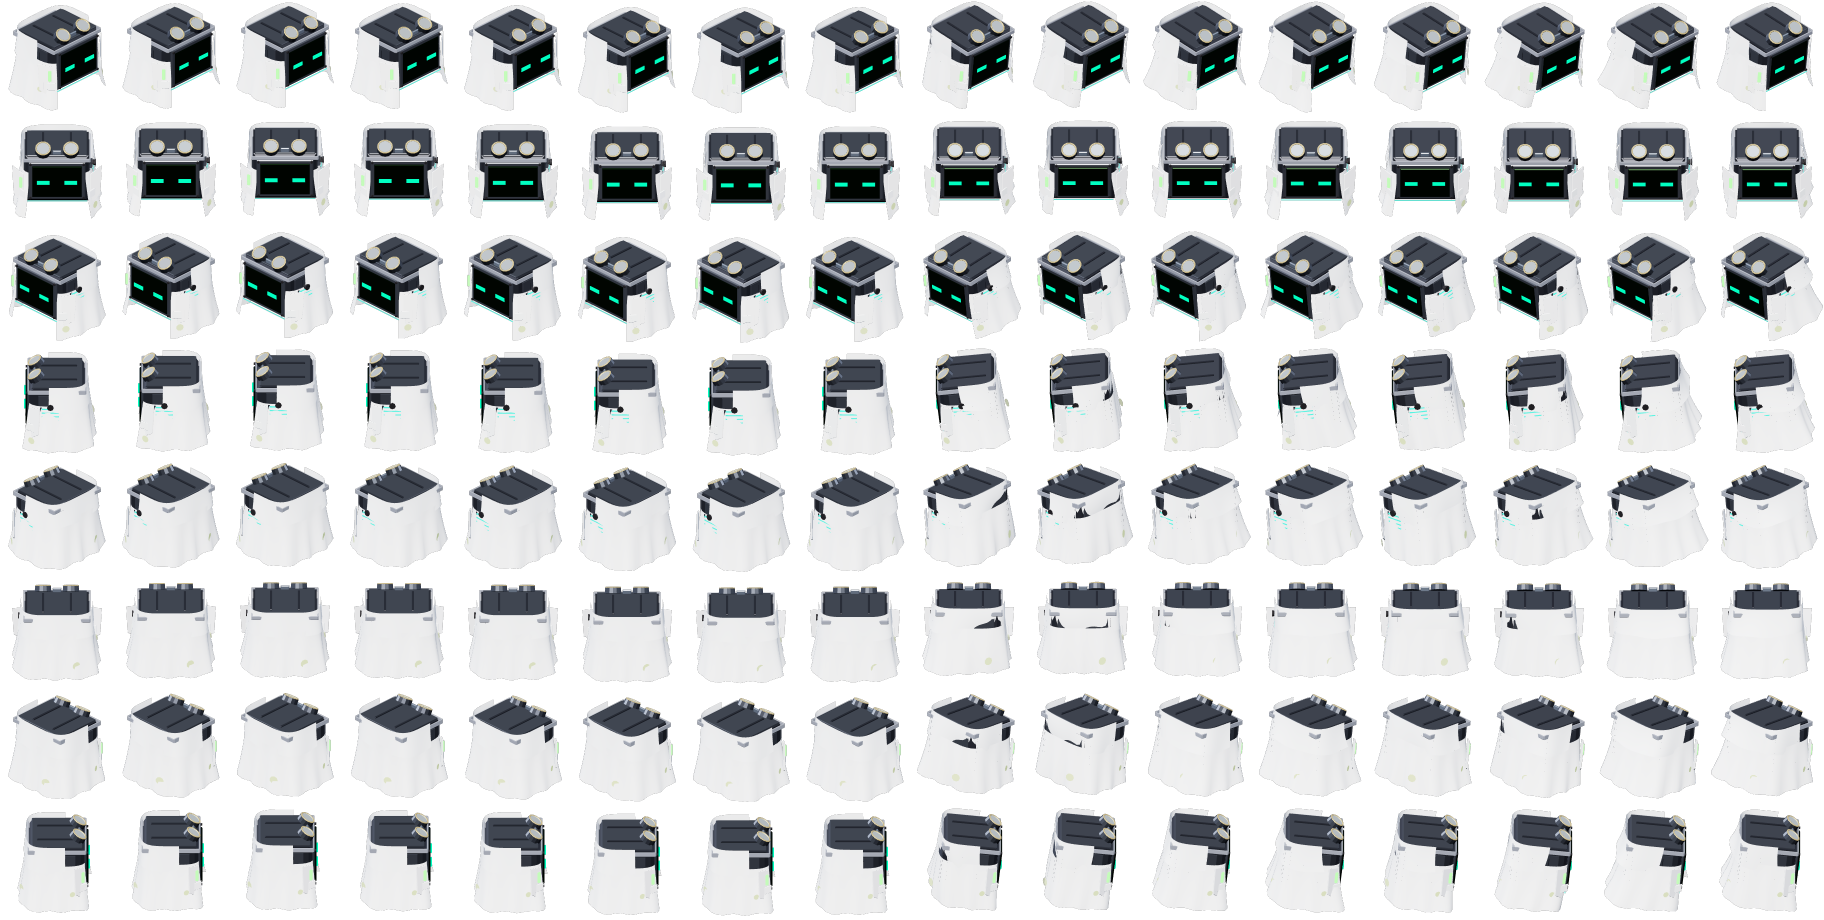
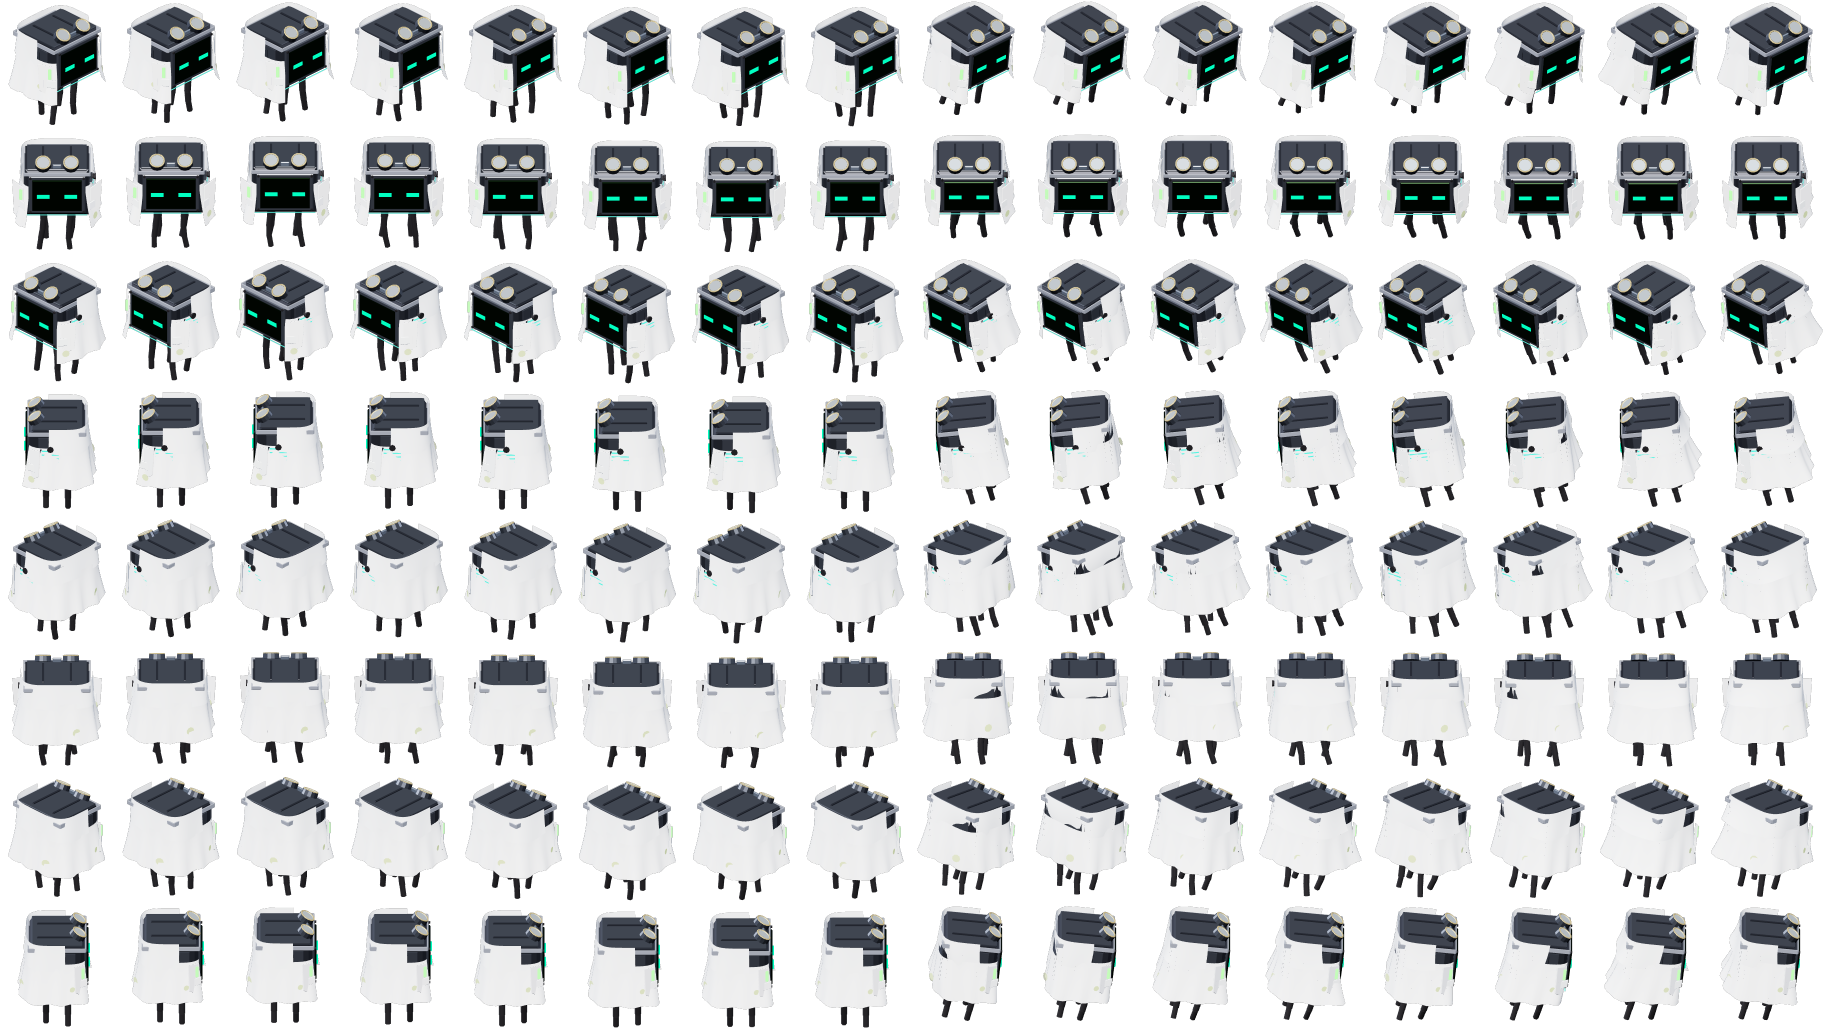
Mutator: the four tentacles hang out under the lab coat's hem
Claude-Session: https://claude.ai/code/session_0115DZYYhipQqSk6LHvQcEfz

diff --git a/design/evolutions/forms30.js b/design/evolutions/forms30.js
@@ -144,14 +144,14 @@ function _coatBand(parent, o) {
     geo.attributes.position.needsUpdate = true; geo.computeVertexNormals(); } };
 }
 function _mutator() {
-  const p = _playerHD(false, { skipCables: [0, 1, 2, 3] }), g = p.g, b = p.b, cy = 1.75, W = 1.5, H = 1.22, D = 1.3;
+  const p = _playerHD(false, { hang: 1.1, cableScale: 1.6 }), g = p.g, b = p.b, cy = 1.75, W = 1.5, H = 1.22, D = 1.3;
   const a = W / 2 + 0.1, bb = D / 2 + 0.1;
-  const skirt = _coatBand(b, { phi0: 0.78, phi1: 2 * PI - 0.78, top: cy + 0.2, hem: 0.8, flare: 0.18, folds: 11, ripple: 0.05, a, b: bb });
+  const skirt = _coatBand(b, { phi0: 0.78, phi1: 2 * PI - 0.78, top: cy + 0.2, hem: 0.92, flare: 0.18, folds: 11, ripple: 0.05, a, b: bb });
   const collar = _coatBand(b, { phi0: 1.35, phi1: 2 * PI - 1.35, top: cy + H / 2 + 0.1, hem: cy + 0.05, flare: 0.05, folds: 5, ripple: 0.02, a: a - 0.0, b: bb - 0.02, mat: _gClothDk });
   // the front edges of the coat: a lapel on each side, turned back from the cube's front corners
   for (const s of [-1, 1]) { const lap = plate([[0, 0], [0.34, 0.1], [0.3, -0.62], [0.06, -0.78], [0, -0.5]], 0.025, 0.004, _gCloth); lap.position.set(s * (W / 2 + 0.04), cy + 0.14, D / 2 - 0.02); lap.rotation.y = s * 0.7 + (s < 0 ? PI : 0); lap.scale.x = 1; b.add(lap); }
   // pockets, stains and the vial of mutagen
-  const at = (phi, v, off) => { const r = (skirt.radius(phi, a, bb) * (1 + 0.18 * Math.pow(v, 1.4)) + (off || 0)), y = cy + 0.2 - (cy + 0.2 - 0.8) * v; return V(r * Math.sin(phi), y, r * Math.cos(phi)); };
+  const at = (phi, v, off) => { const r = (skirt.radius(phi, a, bb) * (1 + 0.18 * Math.pow(v, 1.4)) + (off || 0)), y = cy + 0.2 - (cy + 0.2 - 0.92) * v; return V(r * Math.sin(phi), y, r * Math.cos(phi)); };
   for (const [phi, v] of [[0.95, 0.5], [-0.95 + 2 * PI, 0.5]]) { const pk = cbox(0.28, 0.2, 0.03, 0.01, _gClothDk); const q = at(phi, v, 0.02); pk.position.copy(q); pk.rotation.y = phi; b.add(pk); }
   { const q = at(2 * PI - 0.95, 0.4, 0.05); const vial = cyl(0.04, 0.04, 0.26, _gVial, 8); vial.position.set(q.x, q.y + 0.17, q.z); vial.rotation.y = 0; b.add(vial); const gl = cyl(0.05, 0.05, 0.28, _pGlass, 8); gl.position.copy(vial.position); b.add(gl); }
   for (const [phi, v, r] of [[0.98, 0.78, 0.09], [2 * PI - 1.2, 0.62, 0.07], [PI + 0.5, 0.7, 0.1]]) { const st = new T.Mesh(new T.CircleGeometry(r, 9), _gStain), q = at(phi, v, 0.02); st.position.copy(q); st.rotation.y = phi; b.add(st); }
@@ -168,4 +168,4 @@ function _mutator() {
   }
   return { g, core: cy, update(t, act) { p.update(t, act); const walk = _isWalk(act), ph = _walkPh(act); skirt.update(t, walk, ph); collar.update(t, walk, ph); } };
 }
-f2(843, "THE MUTATOR · a draped white lab coat (open at the front, flared hem, collar, lapels, pockets, stains, a vial of mutagen) and safety goggles pushed up on the cube's brow.", () => _mutator());
+f2(843, "THE MUTATOR · a draped white lab coat (open at the front, the four tentacles hanging out under its hem, flared hem, collar, lapels, pockets, stains, a vial of mutagen) and safety goggles pushed up on the cube's brow.", () => _mutator());

diff --git a/design/evolutions/forms29.js b/design/evolutions/forms29.js
@@ -107,9 +107,9 @@ f2(813, "THE PLAYER · the mech: the cube as a torso on two legs, with stub arms
 // flank that puffs smoke): the same thing, modelled. Chamfered armour, panel lines, bolts, a bezel round the screen, a grille on the vent, cables that sway as it floats.
 // The cube is large (about 1.5 units) because the player is the biggest thing on the lane: the 2D one is 52 px wide.
 function _playerHD(angry, opts) {
-  opts = opts || {};   // opts.skipCables: the cables (0..3) that are not hung (the class gear uses them as tentacles: forms30.js)
+  opts = opts || {};   // opts.skipCables: the cables (0..3) that are not hung (the class gear uses them as tentacles: forms30.js); opts.hang: how far they hang (0.5); opts.cableScale: their thickness (1)
   const g = G(), b = G(); g.add(b);
-  const W = 1.5, H = 1.22, D = 1.3, cy = 1.75, HANG = 0.5;   // it FLOATS: the cube is well off the floor and the cables hang short, never touching it
+  const W = 1.5, H = 1.22, D = 1.3, cy = 1.75, HANG = opts.hang || 0.5, CK = opts.cableScale || 1;   // it FLOATS: the cube is well off the floor and the cables hang short, never touching it
   const eyeMat = new T.MeshBasicMaterial({ color: angry ? 0xff2222 : 0x00ff88, toneMapped: false });
   const body = cbox(W, H, D, 0.09, _pBlack); body.position.y = cy; b.add(body);
   // the top plate (the lighter face the 2D one shows), slightly proud, with two raised ribs
@@ -137,7 +137,7 @@ function _playerHD(angry, opts) {
   for (let t = 0; t < 4; t++) {
     const x = (t % 2 ? 1 : -1) * W * 0.22, z = (t < 2 ? -1 : 1) * D * 0.2, ring = cyl(0.075, 0.075, 0.05, _pPanel, 8); ring.position.set(x, cy - H / 2 - 0.01, z); b.add(ring);
     if ((opts.skipCables || []).includes(t)) continue;
-    const segs = []; for (let i = 0; i < 4; i++) { const s = _limb(b, 0.055 - i * 0.004, _pPeg, 6); segs.push(s); } cables.push({ x, z, segs, t });
+    const segs = []; for (let i = 0; i < 4; i++) { const s = _limb(b, (0.055 - i * 0.004) * CK, _pPeg, 6); segs.push(s); } cables.push({ x, z, segs, t });
   }
   const sway = (t, walk, ph) => { for (const c of cables) { let p = V(c.x, cy - H / 2, c.z); const n = c.segs.length, step = HANG / n;
       for (let i = 0; i < n; i++) { const k = (i + 1) / n, a = Math.sin(t * 1.6 + c.t * 1.3 + i * 0.7) * 0.09 * k + (walk ? Math.sin(ph + c.t + i * 0.5) * 0.05 * k : 0), q = V(c.x + a, p.y - step * (walk ? 0.93 : 1), c.z + (walk ? -0.16 * k + Math.sin(ph + c.t) * 0.04 * k : 0)); c.segs[i].set(p, q); p = q; } } };

diff --git a/js/hdsprites.js b/js/hdsprites.js
@@ -13,7 +13,7 @@ const HD_CELL = 144, HD_ANCHOR = [72, 114.18], HD_PX_PER_UNIT = 144 / 3.4;
 const HD_BOX = { player: { ox: 26, oy: 1, cw: 92, ch: 105 }, egg: { ox: 41, oy: 43, cw: 62, ch: 85 },
     // the player with its class gear (design/evolutions/forms30.js): baked in 186 px cells over 4.4 units (the same pixels per unit), so each has its own anchor (ax, ay) in the original cell
     player_gun: { ox: 17, oy: 23, cw: 152, ch: 127, ax: 93, ay: 135.1 }, player_gun_aim: { ox: 4, oy: 23, cw: 178, ch: 103, ax: 93, ay: 135.1 },
-    player_mech: { ox: 16, oy: 27, cw: 154, ch: 139, ax: 93, ay: 135.1 }, player_coat: { ox: 36, oy: 20, cw: 114, ch: 115, ax: 93, ay: 135.1 } };
+    player_mech: { ox: 16, oy: 27, cw: 154, ch: 139, ax: 93, ay: 135.1 }, player_coat: { ox: 36, oy: 20, cw: 114, ch: 129, ax: 93, ay: 135.1 } };
 // Draw one frame (col, row) of a sheet with the figure's anchor at (ax, ay) on screen, at scale s.
 function _hdBlit(g, img, box, col, row, ax, ay, s) {
     const an = box.ax === undefined ? HD_ANCHOR : [box.ax, box.ay];

diff --git a/docs/TUTORIAL.md b/docs/TUTORIAL.md
@@ -121,6 +121,6 @@ Each class earns a **signature piece of gear** (`CLASS_SIGNATURE` in js/classes.
 
 - **Gunslinger — the machine gun.** Found in the **Armory** (the weapon locker). The cube still floats; two of its four cables are long tentacles that carry the big belt-fed gun low at its left side. When the weapon is **armed** they pull it up level beside the screen, looking down the sights, and the action frames fire it (recoil and a muzzle flash) for 14 frames after each shot. It turns to the locked enemy. Four times the rate of fire, each round a little softer (`shotCooldown` ×0.25, `shotDamage` ×0.8), and the locker gives four ammo packs.
 - **Technomancer — the spider mech.** It has to be **built in the Show Room**: the legs (two cases in Teleport Room 1 and the passage, two each) and the core (in the Show Room) go into the **mech bay**, a seven-second build at the pad (walk away and it stops, nothing is spent). An armoured walker with the cube seated in its cockpit, four thick jointed legs that walk with the player; 40% faster (`playerSpeed` ×1.4) and the lamp reaches 30% further.
-- **Mutator — the lab coat and goggles.** Put on by walking **from Teleport Room 1 through the passage into the Experiment Lab**, in that order (any other walk starts again), and **kept for good**. A draped white coat open at the front with a collar, lapels, pockets, stains and a vial of mutagen, and safety goggles pushed up on the brow. A mutagen sample raises a follower two levels (`mutagenLevels` +1); the sequencer's perk adds one more.
+- **Mutator — the lab coat and goggles.** Put on by walking **from Teleport Room 1 through the passage into the Experiment Lab**, in that order (any other walk starts again), and **kept for good**. A draped white coat open at the front, the four tentacles hanging out under its hem, with a collar, lapels, pockets, stains and a vial of mutagen, and safety goggles pushed up on the brow. A mutagen sample raises a follower two levels (`mutagenLevels` +1); the sequencer's perk adds one more.
 
 **Known issues.** The gear sheets have no angry (red-eyed) variant: the plain cube's `player_angry` sheet is not used while gear is worn. Each sheet decodes to about 9–10 MB, loaded only when its gear is owned. The sheets are baked at 186 px cells over 4.4 units to hold the mech and the gun inside the cell at every facing.
